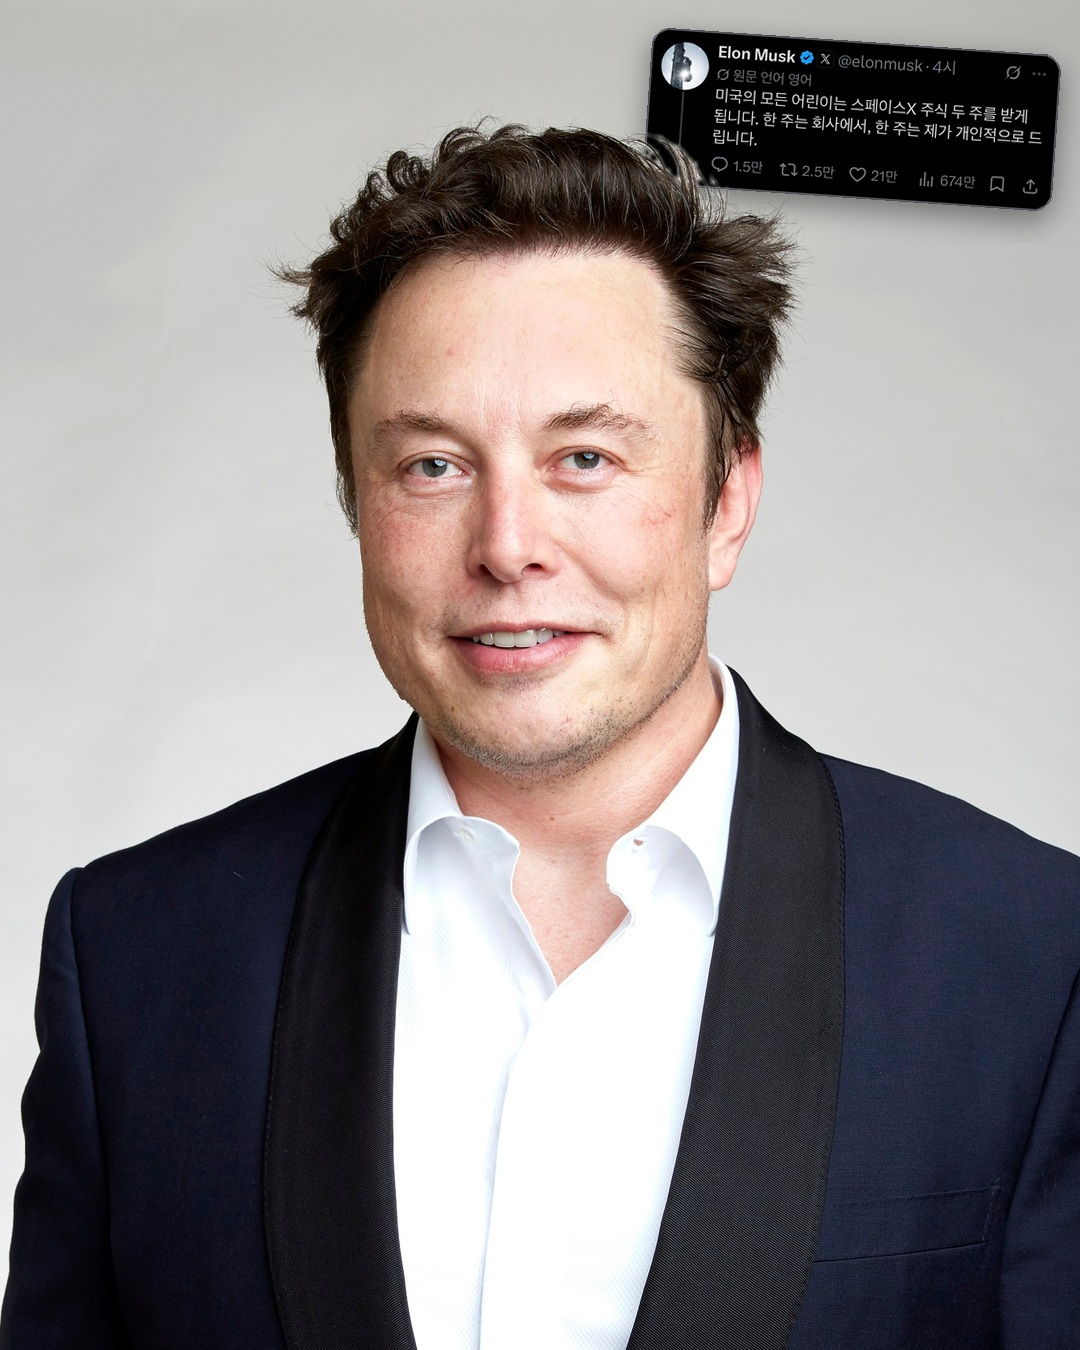
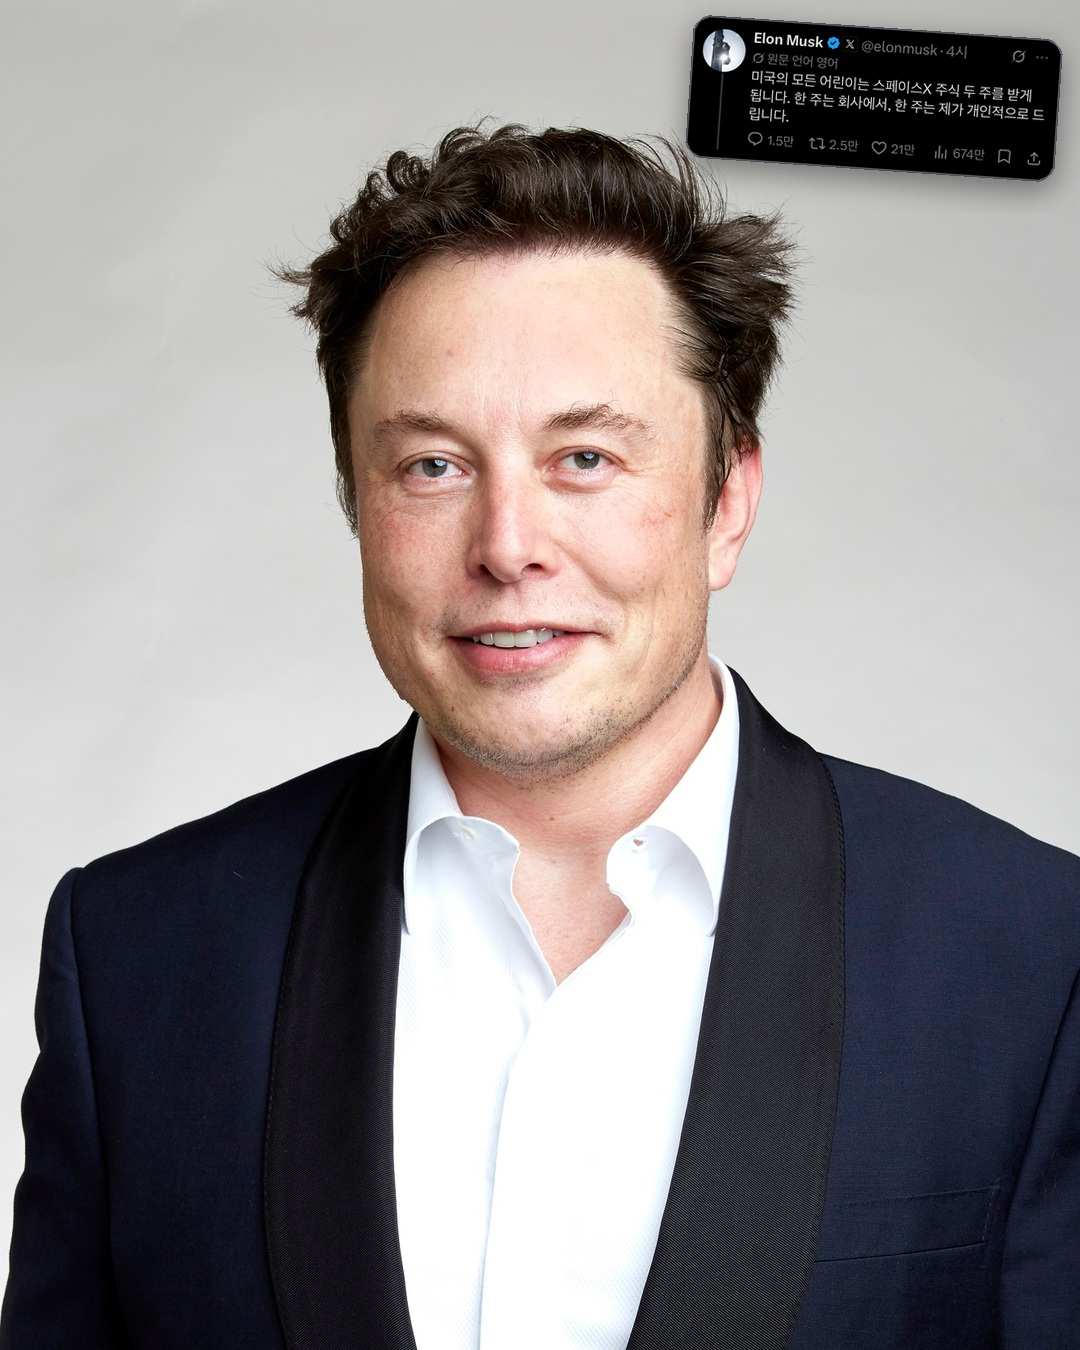
musk: 표지 캡처 카드 안 가리게
Claude-Session: https://claude.ai/code/session_01FGsw5S4nGrZdCJo7qBU1wE

Changed region(s): [[0.5806, 0.0, 1.0, 0.1867]]

diff --git a/media/20261126-musk/make_cover.py b/media/20261126-musk/make_cover.py
@@ -10,7 +10,7 @@ a = np.asarray(bg).astype(float); lum = a.mean(2); sat = a.max(2) - a.min(2)
 person = ((lum < 150) | (sat > 40)).astype(np.uint8) * 255
 mask = Image.fromarray(person).filter(ImageFilter.MaxFilter(5)).filter(ImageFilter.MinFilter(5)).filter(ImageFilter.GaussianBlur(1.5))
 cap = Image.open(D / "cand/musk_cap_real.png").convert("RGB")
-w = 390; cap = cap.resize((w, round(cap.height * w / cap.width)), Image.LANCZOS); h = cap.height
+w = 350; cap = cap.resize((w, round(cap.height * w / cap.width)), Image.LANCZOS); h = cap.height
 pad = 10; card = Image.new("RGBA", (w + 2 * pad, h + 2 * pad), (0, 0, 0, 0)); d = ImageDraw.Draw(card)
 d.rounded_rectangle((0, 0, card.width - 1, card.height - 1), 18, fill=(0, 0, 0, 255), outline=(80, 80, 88, 255), width=2)
 m = Image.new("L", cap.size, 0); ImageDraw.Draw(m).rounded_rectangle((0, 0, w - 1, h - 1), 10, fill=255)
@@ -18,7 +18,7 @@ card.paste(cap, (pad, pad), m)
 card = card.rotate(-4, expand=True, resample=Image.BICUBIC)
 sh = Image.new("RGBA", (card.width + 60, card.height + 60), (0, 0, 0, 0)); sh.paste((0, 0, 0, 110), (30, 40), card.split()[3])
 sh = sh.filter(ImageFilter.GaussianBlur(14))
-x, y = 1080 - card.width - 18, 26
+x, y = 1080 - card.width - 16, 14
 out = bg.convert("RGBA"); out.alpha_composite(sh, (x - 30, y - 30)); out.alpha_composite(card, (x, y))
 out = Image.composite(bg.convert("RGBA"), out, mask)  # 인물(머리)이 카드 위로
 out.convert("RGB").save(D / "cand/cover_bg.jpg", quality=94)
